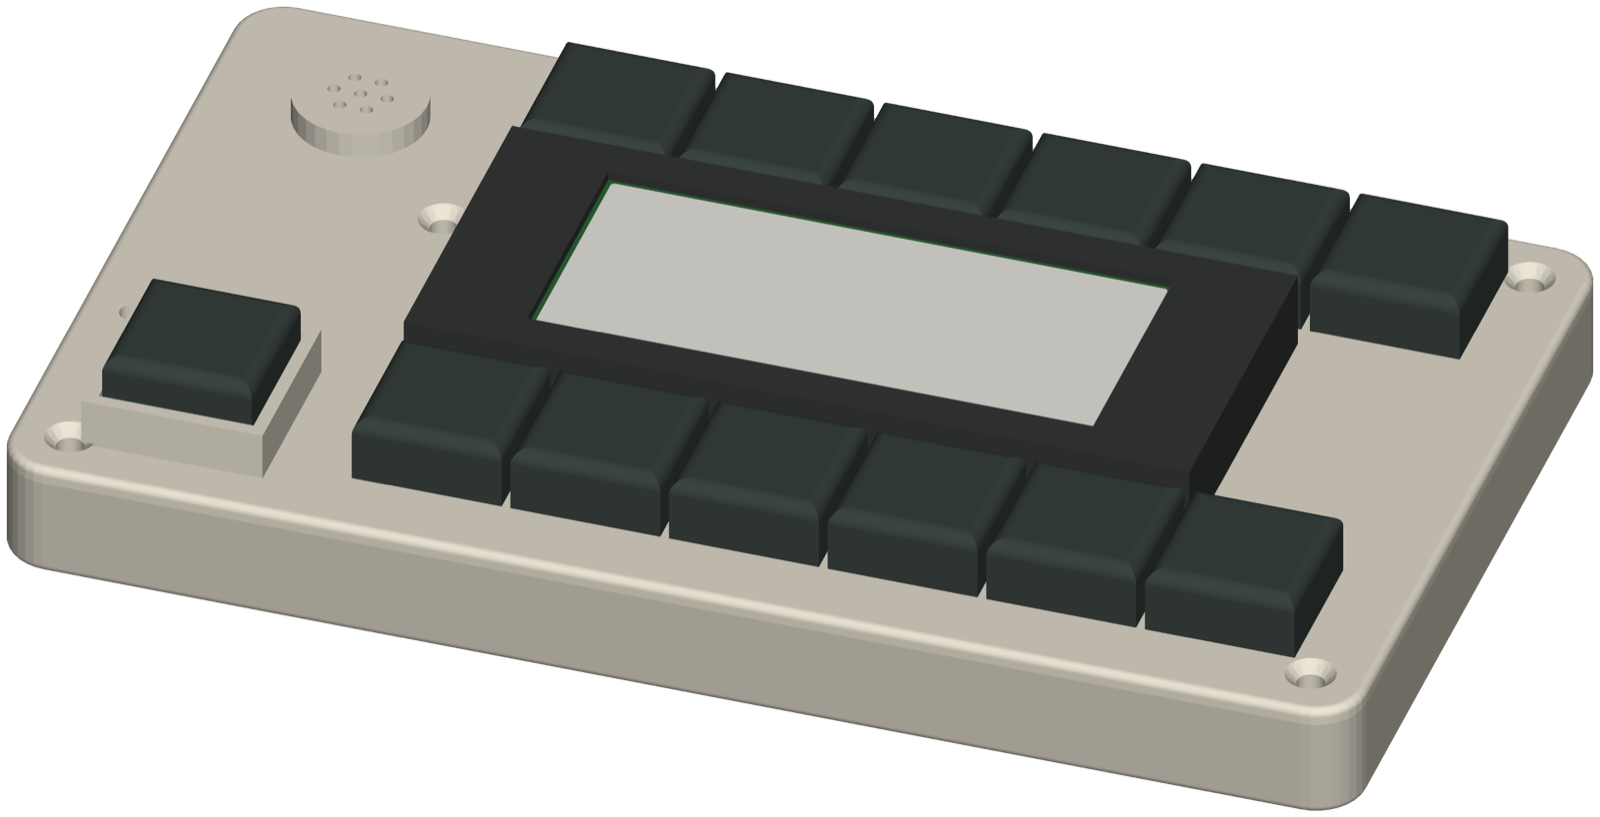
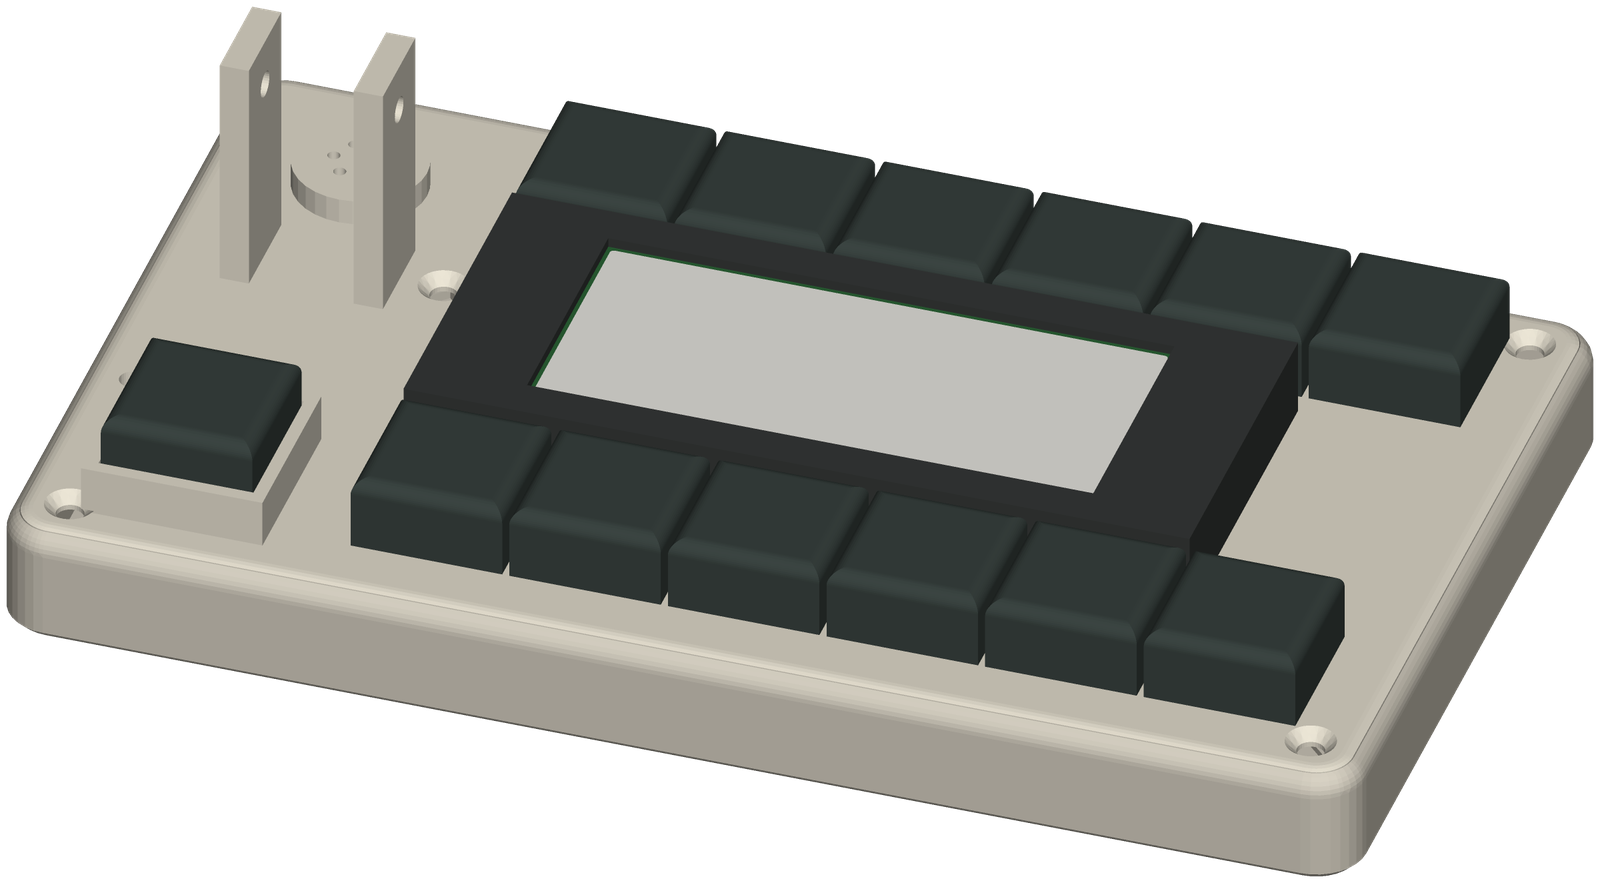
Home and docs: real dev board photos, today's phone and box, true board status
- The hardware section opens with photos of a v0.1 dev board running the
  labs build (with its handset, and its About screen), then the board
  renders, then the printable box (now the 2.13" display).
- The browser phone screenshot is today's (main repo phone-menu.png).
- Board status everywhere: four phones are built and working on the
  experimental labs build, lightly tested; full testing waits on the Wi-Fi
  antennas. A virtual phone to start, board v1.0 for building your own,
  board v0.9 for tinkerers.
- main -> e977b34.

Claude-Session: https://claude.ai/code/session_01CaSM1U8XR1yRu4Y4kKoLr6

diff --git a/src/styles/theme.css b/src/styles/theme.css
@@ -85,3 +85,9 @@
   font-size: var(--sl-text-sm);
   text-align: center;
 }
+
+.board-pics img.photo {
+  border-radius: 0.75rem;
+  aspect-ratio: 4 / 3;
+  object-fit: cover;
+}

diff --git a/src/content-src/project/about.md b/src/content-src/project/about.md
@@ -52,10 +52,11 @@ affiliated with or endorsed by Tin Can, and "Tin Can" is their trademark.
 | Connections across servers, the free public hub | works today; the hub is live at hub.openloungephone.app |
 | Lounge phones, rooms and 3-way calls, team and organization phone systems, call recording | works today in the apps and the browser phone |
 | One-command CLI, interop tests between servers and versions | done |
-| Phone firmware (ESP32-S3), 0.9.x | runs in a simulator; not yet tried on a board |
-| Labs firmware, 0.0.0 | tested on a computer; not yet tried on a board |
-| Circuit board, hardware v0.1 | early prototype: boards built and running the firmware |
-| Board v0.9, assembled or bare PCB | coming soon; no price or date |
+| Phone firmware (ESP32-S3), 0.9.x | end-to-end tests in a simulator; on the dev boards next |
+| Labs firmware, 0.0.0 | the experimental build on the v0.1 dev boards for now; lightly tested |
+| Circuit board, hardware v0.1 | early prototype: four phones built and working |
+| Board v0.9, assembled or bare PCB | coming soon for tinkerers; no price or date |
+| Board v1.0 | the one we'll recommend building |
 
 What changed and when: [versions and releases](/project/versions/). See the
 [introduction](/intro/) for the full picture and [contributing](/project/contributing/) to get

diff --git a/src/content-src/how-to/build-the-hardware.md b/src/content-src/how-to/build-the-hardware.md
@@ -22,13 +22,15 @@ Hardware is licensed under CERN-OHL-S-2.0.
 
 :::caution[Status]
 **Hardware v0.1 is an early dev board prototype** (silkscreen rev A, 156 × 88 mm, 2 layers, 53
-parts): the first boards, made by JLCPCB, are built and run the firmware. Expect a revision. The exact manufacturing files (Gerbers,
+parts): four phones on the first boards, made by JLCPCB, are built and working, running
+the experimental labs build (0.0.0), lightly tested so far. Expect a revision: we recommend trying a virtual phone first
+and waiting for board v1.0 before building your own. The exact manufacturing files (Gerbers,
 BOM/CPL, schematic and layer PDFs, STEP) and the build and flash guide are in the
 [hw-v0.1 release](https://github.com/Open-Lounge-Phone/open-lounge-phone/releases/tag/hw-v0.1).
 :::
 
 :::tip[Board v0.9: coming soon]
-Board v0.9 will be offered **fully assembled** or as a **bare PCB** to populate yourself. No price
+For tinkerers: board v0.9 will be offered **fully assembled** or as a **bare PCB** to populate yourself. No price
 or date yet. [Join the interest list](https://github.com/Open-Lounge-Phone/open-lounge-phone/discussions/1) and say which you'd want.
 :::
 

diff --git a/src/content-src/project/versions.md b/src/content-src/project/versions.md
@@ -49,9 +49,9 @@ published yet.
 ## Hardware
 
 Hardware releases are tagged `hw-vX.Y` and hold the exact files the boards were made from.
-**v0.1** is an early dev board prototype: the boards are built and run the firmware, so expect a
-revision.
-**Board v0.9** is coming soon, fully assembled or as a bare PCB; there's no price or date yet
+**v0.1** is an early dev board prototype: four phones are built and working on the experimental labs build
+(0.0.0), lightly tested so far. Expect a revision; we recommend waiting for board v1.0 before building.
+**Board v0.9** is coming soon for tinkerers, fully assembled or as a bare PCB; there's no price or date yet
 ([interest list](https://github.com/Open-Lounge-Phone/open-lounge-phone/discussions/1)).
 
 ## Which versions work together

diff --git a/src/content-src/uses/makers.md b/src/content-src/uses/makers.md
@@ -27,9 +27,10 @@ it is published.
 
 ## Status
 
-The hardware is an early prototype: hardware v0.1 boards are built and run the firmware, so
-expect a revision. The labs build runs on the board too; most of its features are so far tested
-on a computer. Board v0.9 is coming, assembled or as a bare PCB.
+The hardware is an early prototype: four phones on hardware v0.1 dev boards are built and
+working, running the experimental labs build (0.0.0), lightly tested so far (full testing waits on
+the Wi-Fi antennas). Expect a revision. We recommend a virtual phone to start and board v1.0
+before building your own; board v0.9 is coming for tinkerers, assembled or as a bare PCB.
 
 ## Start
 
